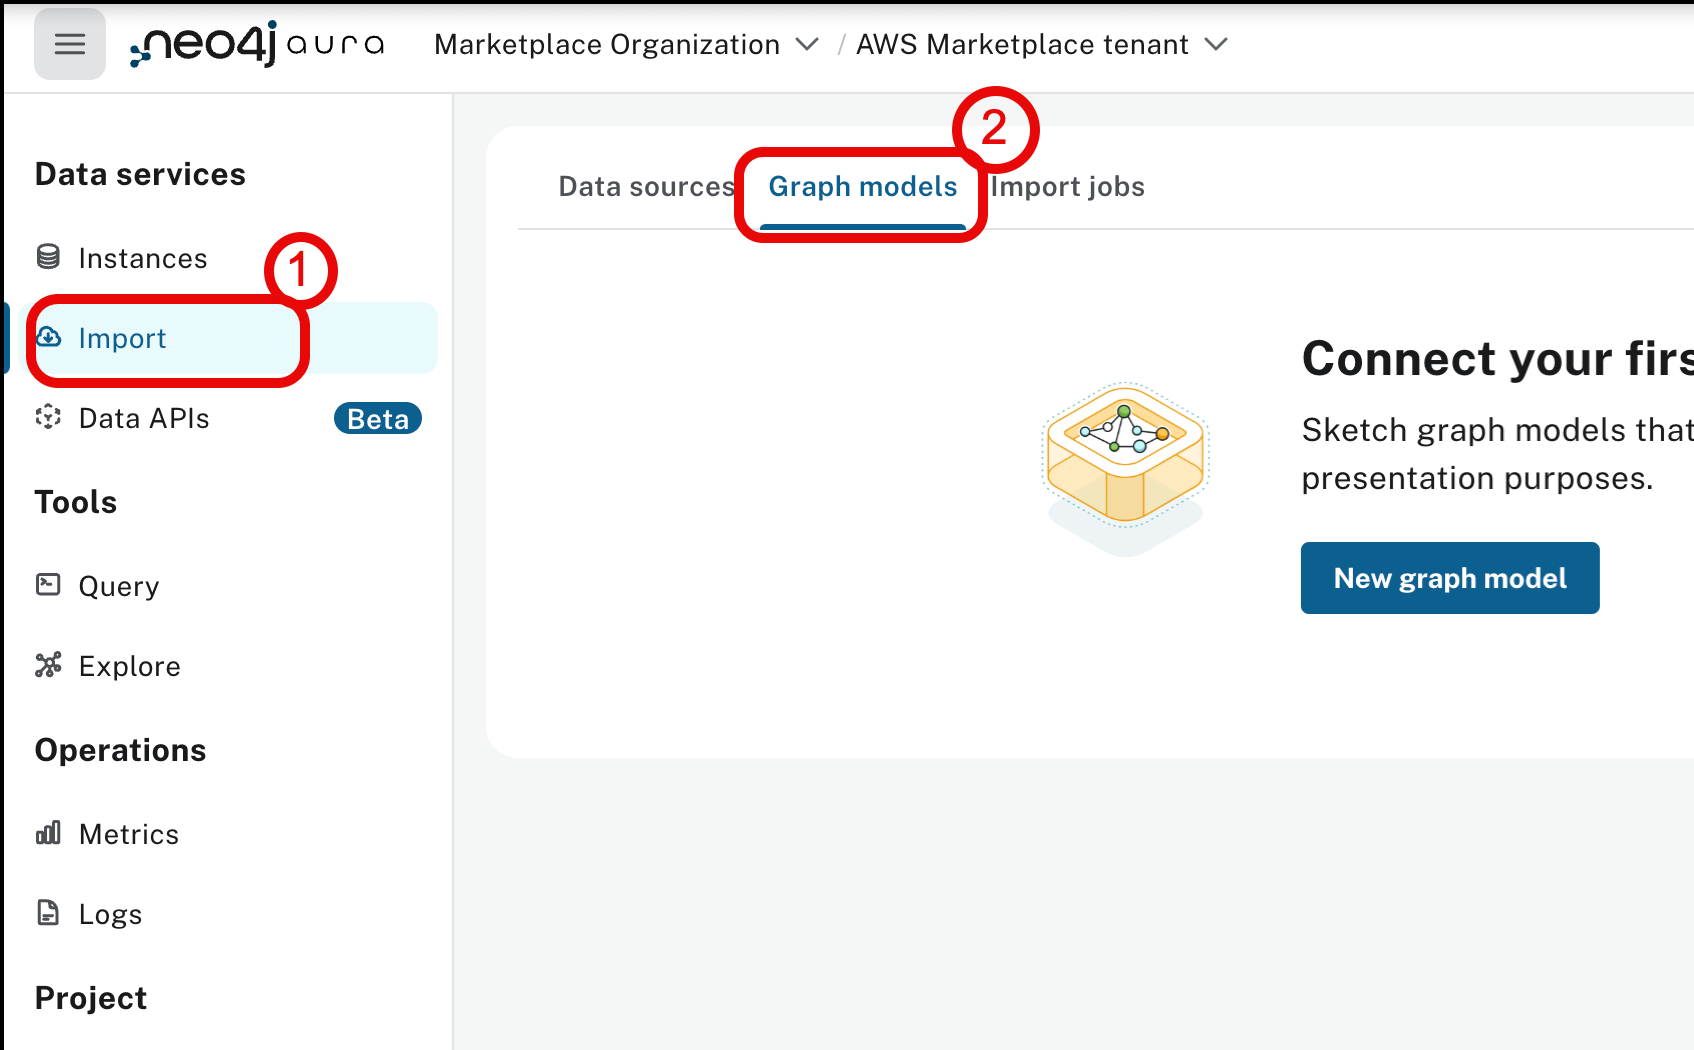
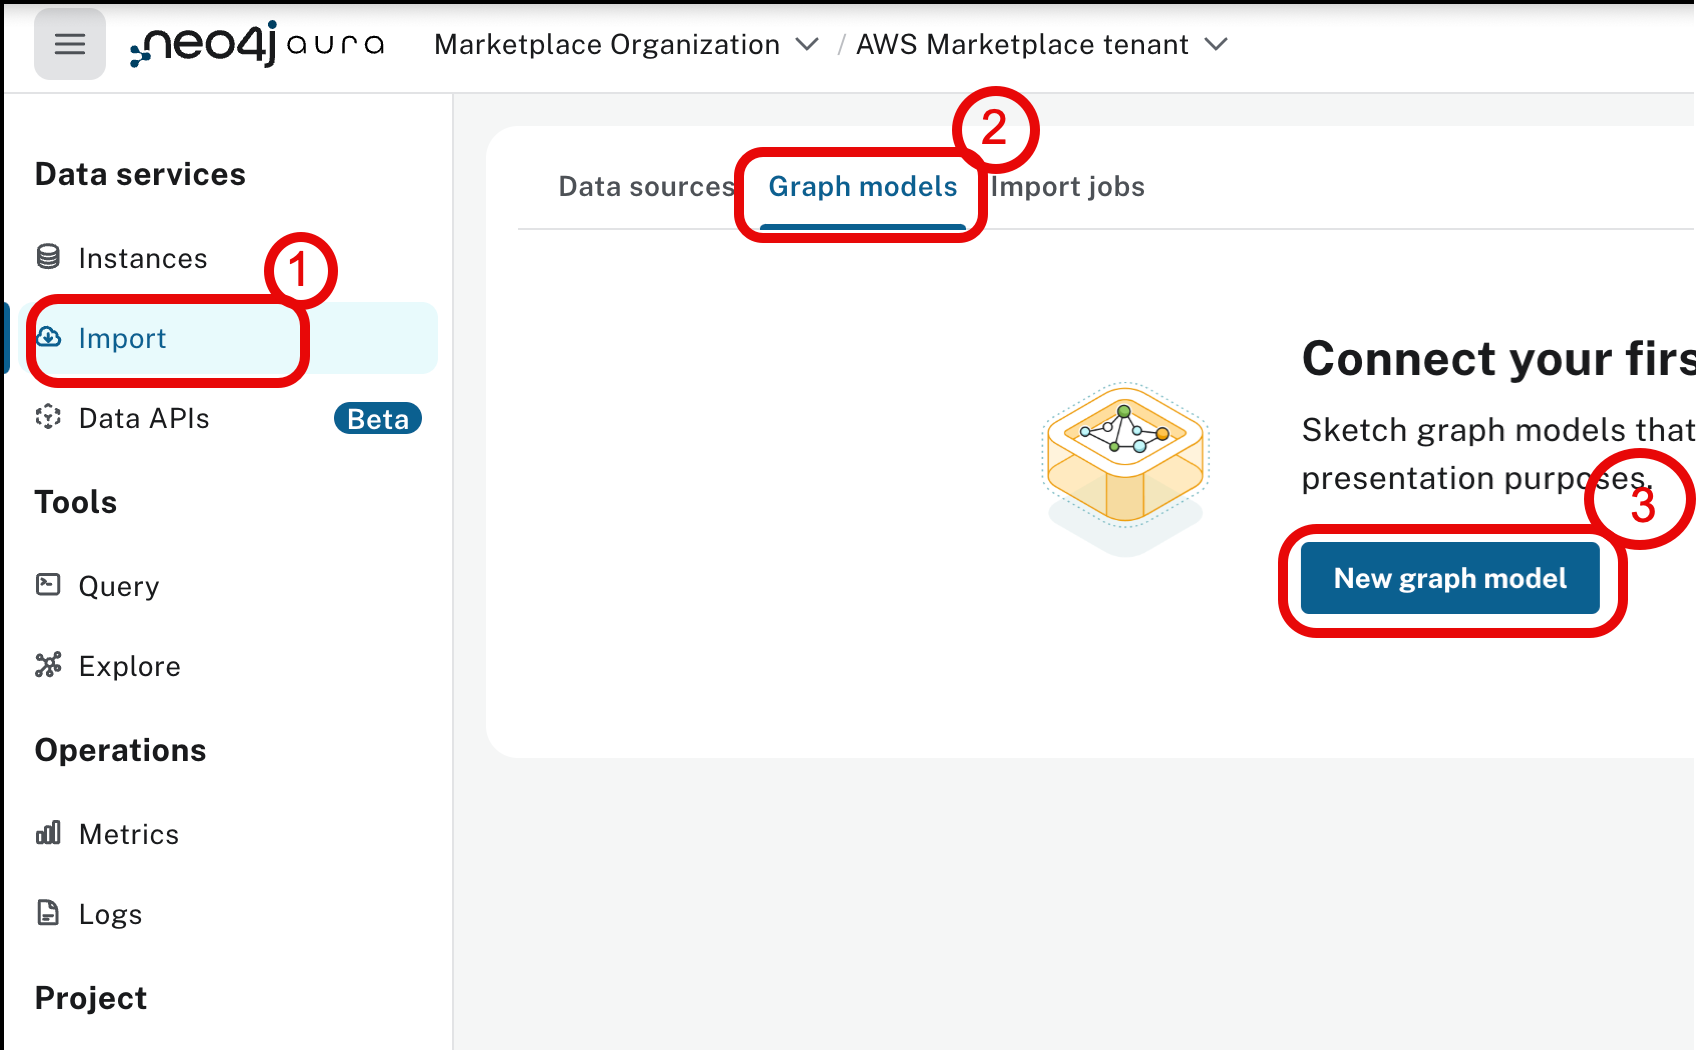
Updated screehshots and instructions to use Import

diff --git a/Lab 3 - Moving Data/README.md b/Lab 3 - Moving Data/README.md
@@ -35,42 +35,37 @@ You will need the following files:
 ## Import Instructions
 
 1.  **Open Neo4j Aura Console:**
-Follow these steps to import the data into your Neo4j Aura database. Lets' use the Import tool. In the data services section, click on "Import" and in the Import section, select the "Graph models" tab.
-![](images/01.png)
-
-2.  **Navigate to Import:**
-    * 
-![](images/02.png)
-![](images/03.png)
-3.  **Access Graph Models:**
-    * 
-![](images/04.png)
-
-4.  **Open Graph Model:**
+Follow these steps to import the data into your Neo4j Aura database. Lets' use the Import tool. 
+    * In the data services section, click on "Import"
+    * in the Import section, select the "Graph models" tab.
     * Click on the "New graph model" button.
+![](images/01.png)
+2. **Open Graph Model:**
     * Locate the "Run import" button in the top right corner and click the three dots next to it.
     * Select "Open model" from the menu.
-![](images/05.png)
-![](images/06.png)
-5.  **Select Graph Model File:**
     * Browse and select the `neo4j_importer_model_sec-edgar-forms13.json` file that you downloaded.
-![](images/07.png)
-6.  **Select Data Source:**
-    * On the left-hand side, next to "Data source," click the "Browse" button.
-    * Select the `form13-2023.csv` file that you downloaded.
-![](images/08.png)
+![](images/02.png)
+![](images/03.png)
 7.  **Review Graph Model:**
     * The graph model should now be displayed on the canvas in the middle of the screen.
-![](images/09.png)
+![](images/04.png)
 8.  **Inspect Nodes and Relationships:**
     * Click on the "Manager" node to view its properties and keys.
+![](images/05.png)
     * Click on the "OWNS" relationship type to view its Node ID Mapping and properties.
-![](images/10.png)
+![](images/06.png)
+6.  **Select Data Source:**
+    * On the left-hand side, next to "Data source," click the "Browse" button.
+![](images/07.png)
+    * Select the `form13-2023.csv` file that you downloaded.
+![](images/08.png)
 9.  **Run Import:**
     * Click on "Run import."
+![](images/09.png)
     * Wait for the import process to complete (approximately 5 minutes or less).
+![](images/10.png)
 ![](images/11.png)
-![](images/12.png)
 You've done it!  We've loaded our data set up.  We'll explore it in the next lab.  But, feel free to poke around a bit as well.
+![](images/12.png)
 
 #### Progress:  ███░░░░ 3/7 Labs Completed!
